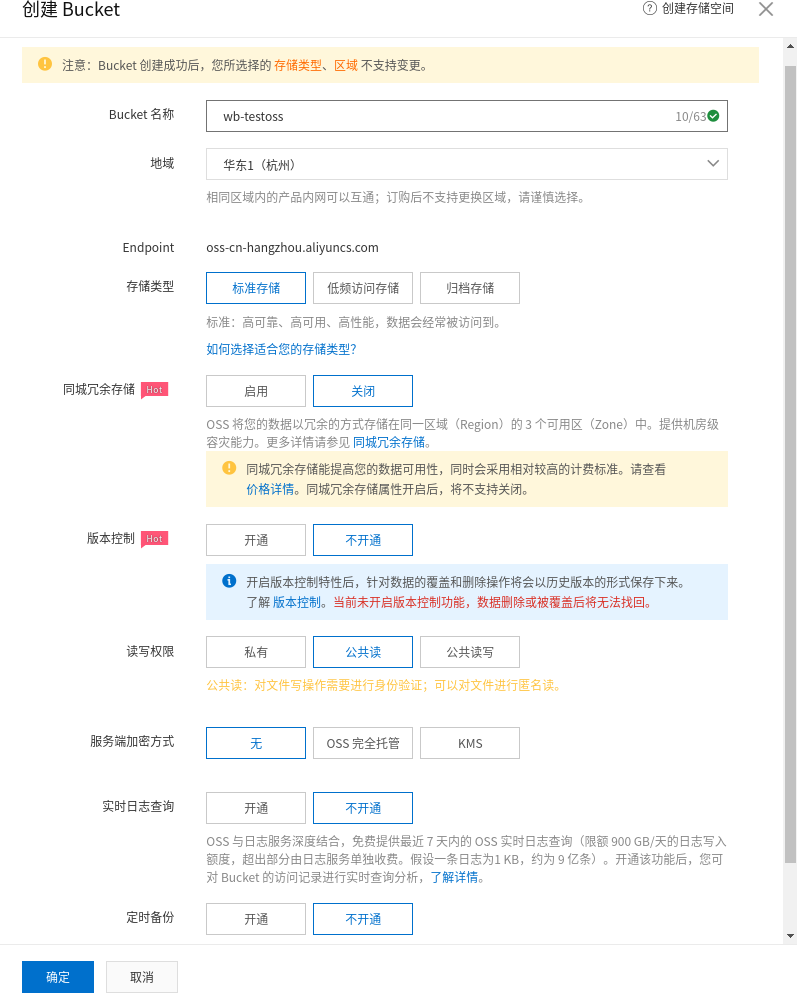
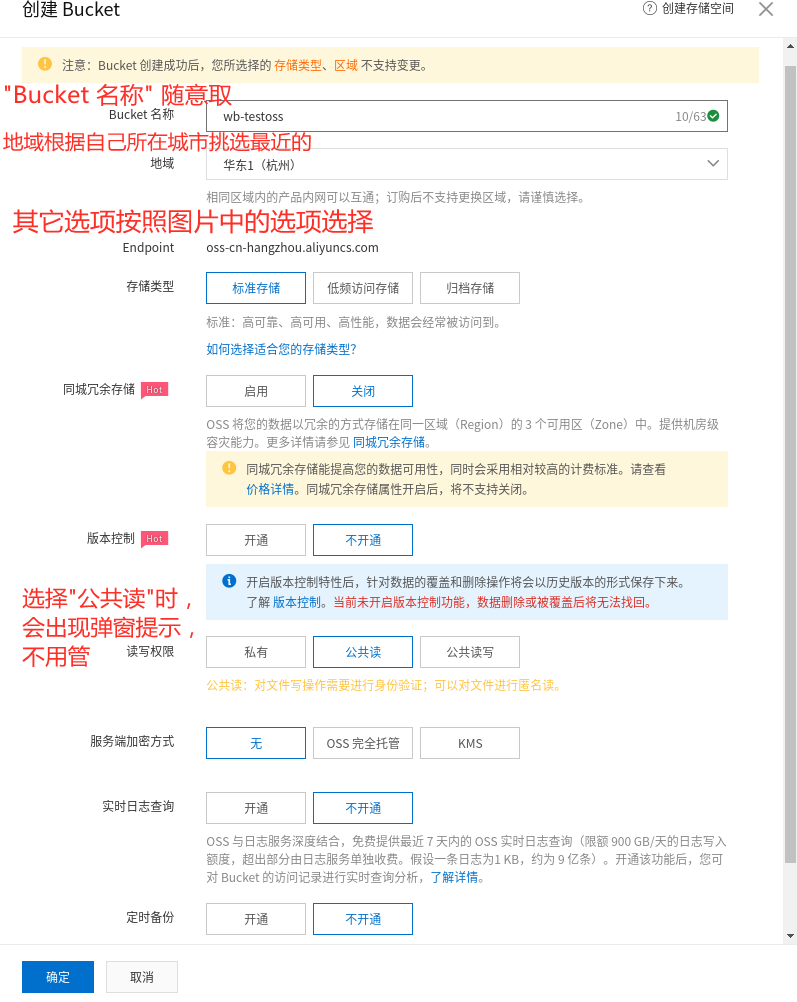
ch

diff --git a/aliyun/OSS对象存储服务/readme.md b/aliyun/OSS对象存储服务/readme.md
@@ -17,6 +17,8 @@
 
 ![image](https://gitee.com/shoukaiseki/blogdoc/raw/master/aliyun/OSS%E5%AF%B9%E8%B1%A1%E5%AD%98%E5%82%A8%E6%9C%8D%E5%8A%A1/img/003.png)
 
+创建之后会，页面右侧有个选项的弹窗提示，不用管，在旁边灰色区域随便点击一下，即可开始准备 创建信息的填写
+![image](https://gitee.com/shoukaiseki/blogdoc/raw/master/aliyun/OSS%E5%AF%B9%E8%B1%A1%E5%AD%98%E5%82%A8%E6%9C%8D%E5%8A%A1/img/003a.jpg)
 
 "Bucket 名称" 随意取,地域根据自己所在城市挑选最近的,其它按照图片中的选项选择
 
@@ -30,7 +32,7 @@
 
 ## 访问密钥创建
 wb-testoss
-### 点击右上角头像,选择访问控制
+### 鼠标移至右上角头像,点击访问控制
 ![image](https://gitee.com/shoukaiseki/blogdoc/raw/master/aliyun/OSS%E5%AF%B9%E8%B1%A1%E5%AD%98%E5%82%A8%E6%9C%8D%E5%8A%A1/img/006.png)
 
 #### 点击"权限策略管理"->"创建权限策略"
@@ -62,11 +64,14 @@ wb-testoss
 点击确认之后返回
 
 #### RAM角色管理->创建RAM角色
+![image](https://gitee.com/shoukaiseki/blogdoc/raw/master/aliyun/OSS%E5%AF%B9%E8%B1%A1%E5%AD%98%E5%82%A8%E6%9C%8D%E5%8A%A1/img/009a.jpg)
 
  选择阿里云帐号,点击下一步
 ![image](https://gitee.com/shoukaiseki/blogdoc/raw/master/aliyun/OSS%E5%AF%B9%E8%B1%A1%E5%AD%98%E5%82%A8%E6%9C%8D%E5%8A%A1/img/009.png)
 
-角色名称随意填写, "选择云帐号"选择当前云帐号
+角色名称随意填写, 
+![image](https://gitee.com/shoukaiseki/blogdoc/raw/master/aliyun/OSS%E5%AF%B9%E8%B1%A1%E5%AD%98%E5%82%A8%E6%9C%8D%E5%8A%A1/img/011a.jpg)
+"选择云帐号"选择当前云帐号
 ![image](https://gitee.com/shoukaiseki/blogdoc/raw/master/aliyun/OSS%E5%AF%B9%E8%B1%A1%E5%AD%98%E5%82%A8%E6%9C%8D%E5%8A%A1/img/010.png)
 
 之后点击"为角色授权","授权范围"选择"云帐号全部资源",
@@ -76,8 +81,10 @@ wb-testoss
 ![image](https://gitee.com/shoukaiseki/blogdoc/raw/master/aliyun/OSS%E5%AF%B9%E8%B1%A1%E5%AD%98%E5%82%A8%E6%9C%8D%E5%8A%A1/img/011.png)
 之后点击确定->完成
 
-再在 RAM角色管理 列表中点击你创建的角色,点击 ARN 右边的复制,将内容发给 开发人员
+再在 RAM角色管理 列表中点击你创建的角色
+![image](https://gitee.com/shoukaiseki/blogdoc/raw/master/aliyun/OSS%E5%AF%B9%E8%B1%A1%E5%AD%98%E5%82%A8%E6%9C%8D%E5%8A%A1/img/013a.jpg)
 
+点击 ARN 右边的复制,将内容发给 开发人员
 ![image](https://gitee.com/shoukaiseki/blogdoc/raw/master/aliyun/OSS%E5%AF%B9%E8%B1%A1%E5%AD%98%E5%82%A8%E6%9C%8D%E5%8A%A1/img/013.png)
 
 #### 点击左边菜单栏"用户",然后 创建用户
@@ -93,7 +100,9 @@ wb-testoss
 AccessKey ID LTAI4G6sEQTsZAXggdCUDHKA
 AccessKey Secret 03uAygpYWdrLFPaOIxWw5SaF9R3bWc
 ```
-再点击左边菜单栏"用户",点击用户列表中刚才建立的用户,点击"权限管理"标签页
+再点击左边菜单栏"用户",点击用户列表中刚才建立的用户,
+![image](https://gitee.com/shoukaiseki/blogdoc/raw/master/aliyun/OSS%E5%AF%B9%E8%B1%A1%E5%AD%98%E5%82%A8%E6%9C%8D%E5%8A%A1/img/017a.jpg)
+点击"权限管理"标签页
 ![image](https://gitee.com/shoukaiseki/blogdoc/raw/master/aliyun/OSS%E5%AF%B9%E8%B1%A1%E5%AD%98%E5%82%A8%E6%9C%8D%E5%8A%A1/img/017.png)
 
 添加权限 
@@ -123,7 +132,14 @@ AccessKey Secret 03uAygpYWdrLFPaOIxWw5SaF9R3bWc
 ```
 http://*
 ```
+允许Methods
+
+```
+GET/POST/PUT/DELETE/HEAD 都选上
+```
+
 允许 Headers
+
 ```
 *
 ```
